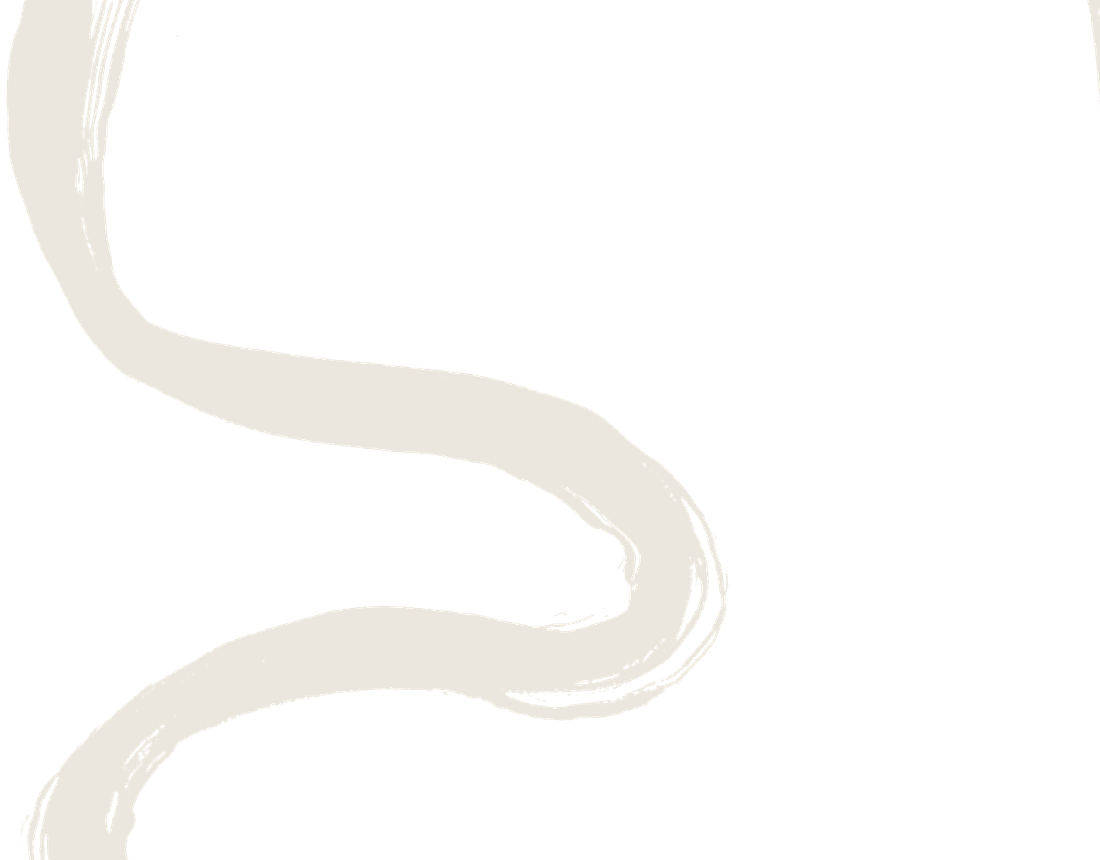
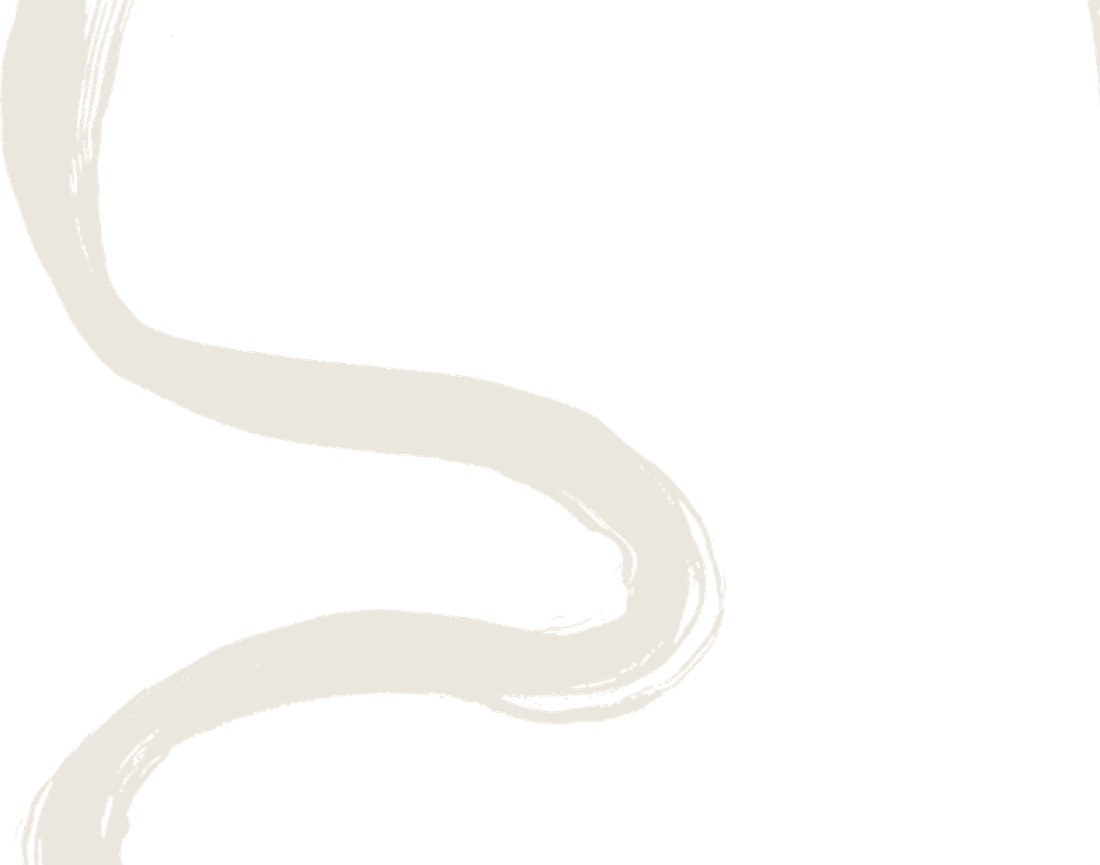
Le trait traverse chaque section, d'un bord à l'autre
Chaque fragment prend toute la hauteur de sa section : il entre par
le bord du haut et ressort par le bord du bas, sans marge. La hauteur
commande, la largeur suit, l'encre n'est jamais déformée.

Un seul fragment par section, dans l'ordre du dessin, en passant d'un
côté à l'autre. Les prochains rendez-vous restent nus.

diff --git a/src/styles/mouvement.css b/src/styles/mouvement.css
@@ -21,9 +21,7 @@ main > section > div { position: relative; z-index: 2; }
 .brosse--haut.brosse--retournee { transform: scaleX(-1); }
 .brosse--bas.brosse--retournee { transform: rotate(180deg) scaleX(-1); }
 
-/* ── Le chemin : tes fragments d'encre, à leur format d'origine ── */
-.trace { position: absolute; z-index: 1; height: auto; max-width: none;
-  pointer-events: none; user-select: none; }
-@media (max-width: 760px) {
-  .trace { width: min(52%, 220px) !important; opacity: 0.26 !important; }
-}
+/* ── Le chemin : tes fragments d'encre, toute la hauteur de la section ── */
+.trace { position: absolute; top: 0; height: 100%; width: auto; max-width: none;
+  z-index: 1; pointer-events: none; user-select: none; }
+@media (max-width: 760px) { .trace { opacity: 0.2 !important; } }
